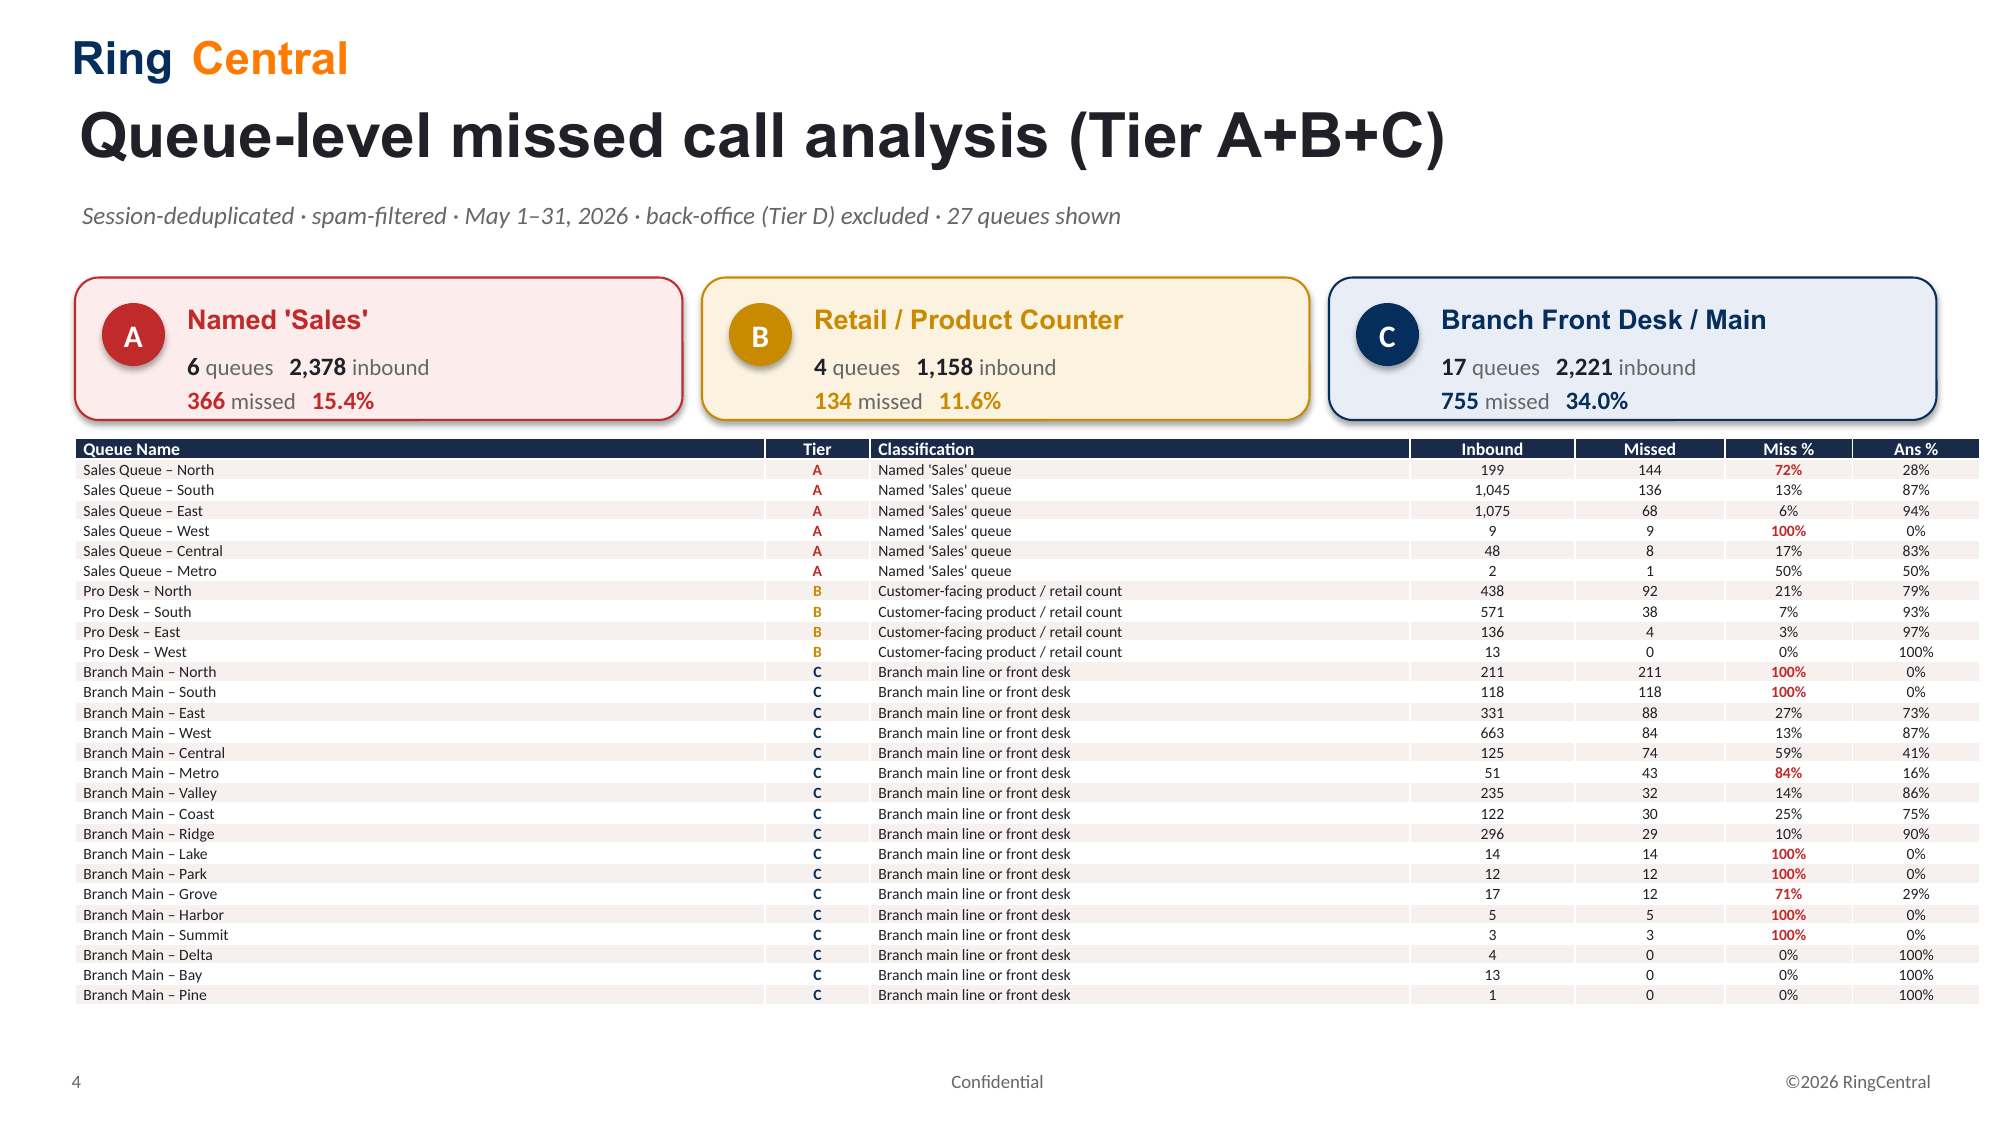
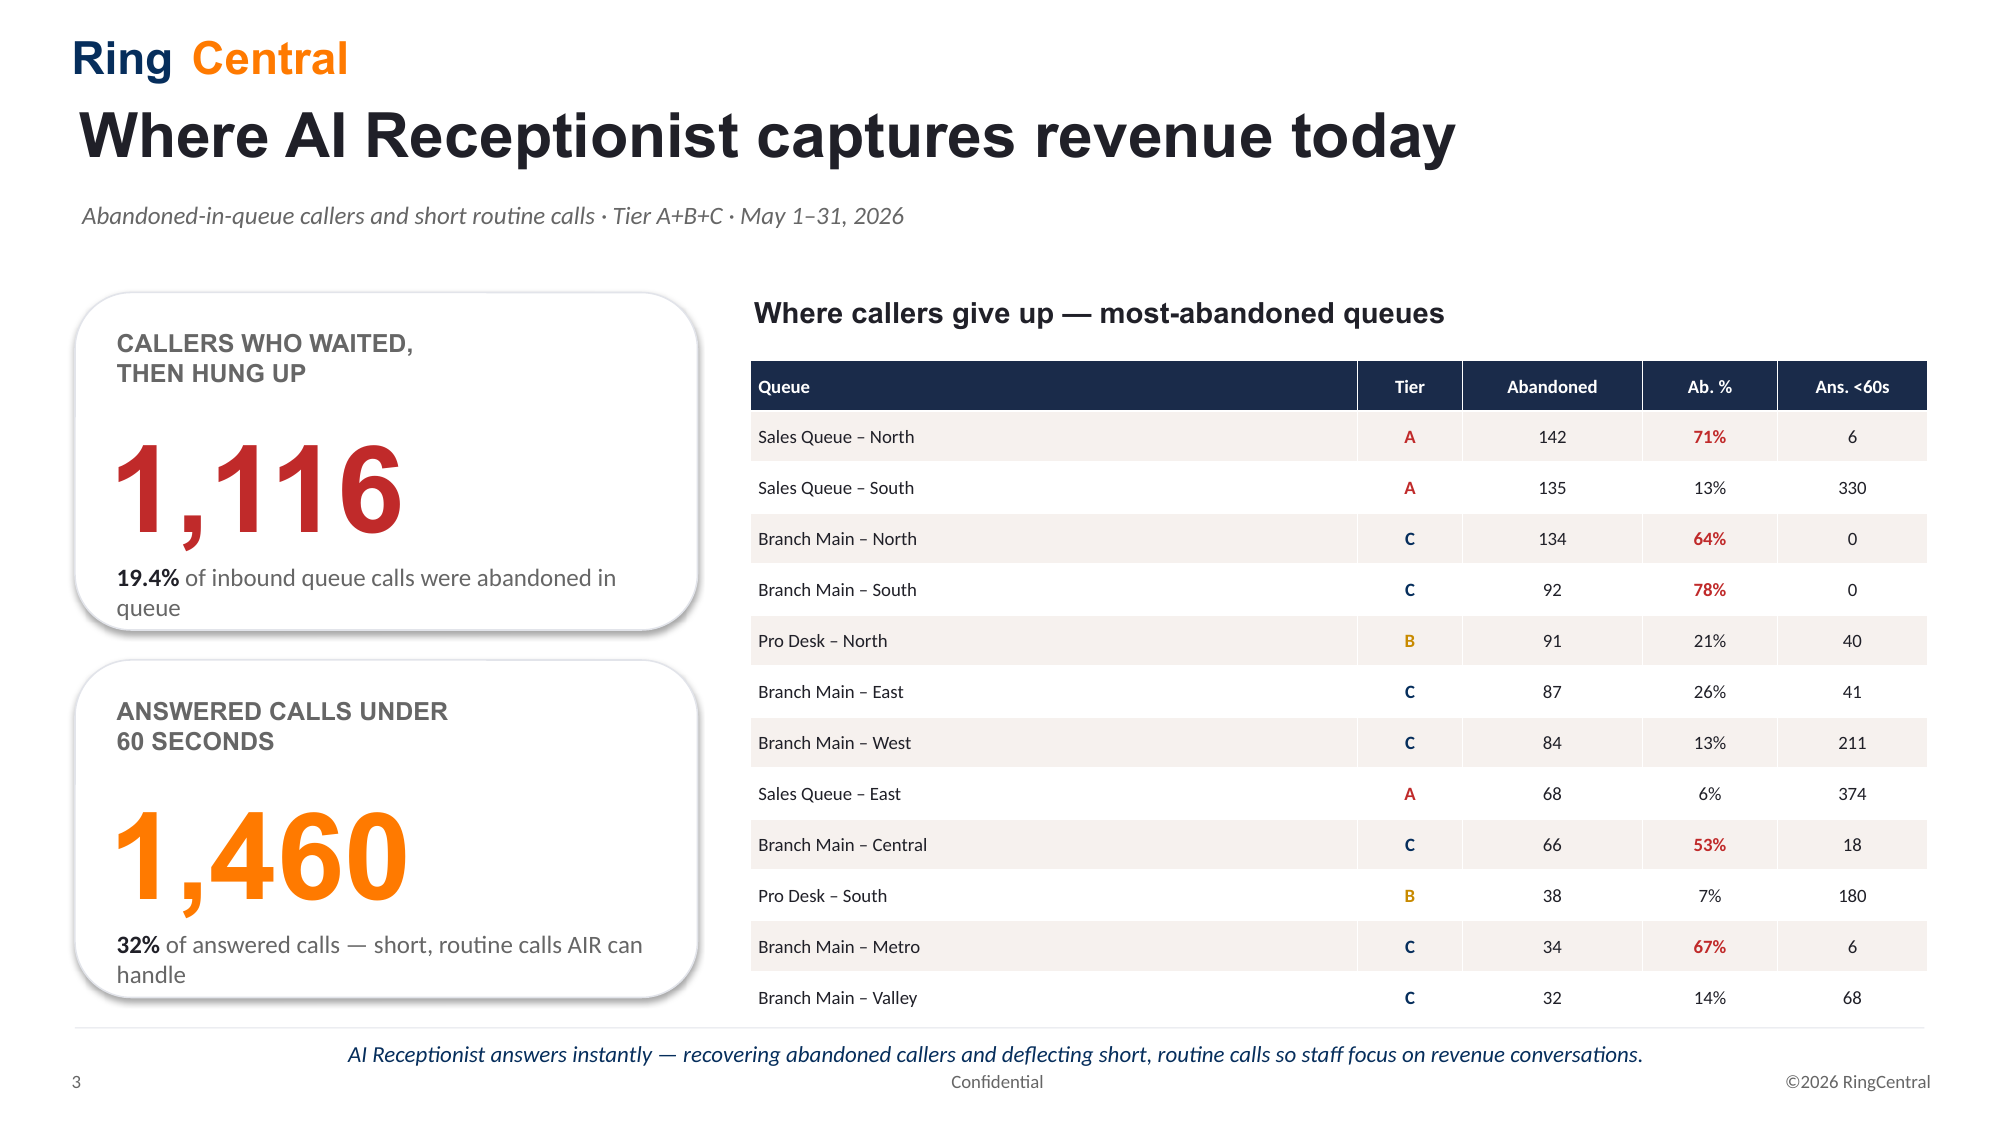
Add slide 3: AI Receptionist opportunity signals
Implement the VP-of-Sales expansion: track abandoned-in-queue callers
(abandoned + abandoned-to-voicemail) and answered calls under 60s of talk
time, both headline and per-queue. Add a new slide 3 with two stat cards
and a most-abandoned-queues table, growing the deck to four slides.
Average speed of answer is deferred — the current export has no wait-time
column. Regenerate the anonymized example slides accordingly.

diff --git a/templates/index.html b/templates/index.html
@@ -22,7 +22,7 @@
 <div class="card" style="background:linear-gradient(180deg,#fbfcfe 0%,#fff 100%);">
   <div style="display:flex;align-items:baseline;justify-content:space-between;flex-wrap:wrap;gap:0.5rem;margin-bottom:0.4rem;">
     <h2 style="margin-bottom:0;">Here's exactly what you'll get</h2>
-    <span style="color:#999;font-size:0.82rem;">Real example · 3-slide .pptx</span>
+    <span style="color:#999;font-size:0.82rem;">Real example · 4-slide .pptx</span>
   </div>
   <p style="color:#777;font-size:0.9rem;margin-bottom:1.5rem;">
     A finished, RingCentral-branded PowerPoint — built automatically from your upload. Sample below:
@@ -37,8 +37,8 @@
          style="width:100%;display:block;">
   </a>
 
-  <!-- The other two slides -->
-  <div style="display:grid;grid-template-columns:1fr 1fr;gap:1rem;">
+  <!-- The other three slides -->
+  <div style="display:grid;grid-template-columns:1fr 1fr 1fr;gap:1rem;">
     <a href="{{ url_for('static', filename='examples/slide-1.png') }}" target="_blank"
        style="display:block;border-radius:8px;overflow:hidden;border:1px solid #e7eaf0;
               box-shadow:0 2px 10px rgba(0,0,0,0.06);">
@@ -49,6 +49,12 @@
        style="display:block;border-radius:8px;overflow:hidden;border:1px solid #e7eaf0;
               box-shadow:0 2px 10px rgba(0,0,0,0.06);">
       <img src="{{ url_for('static', filename='examples/slide-3.png') }}"
+           alt="Example slide: AI Receptionist opportunity signals" style="width:100%;display:block;">
+    </a>
+    <a href="{{ url_for('static', filename='examples/slide-4.png') }}" target="_blank"
+       style="display:block;border-radius:8px;overflow:hidden;border:1px solid #e7eaf0;
+              box-shadow:0 2px 10px rgba(0,0,0,0.06);">
+      <img src="{{ url_for('static', filename='examples/slide-4.png') }}"
            alt="Example slide: queue-level detail" style="width:100%;display:block;">
     </a>
   </div>

diff --git a/deck.py b/deck.py
@@ -306,6 +306,96 @@ def _worst_table(s, queues, x, y, w):
 
 
 # ---------------------------------------------------------------------------
+# Slide 3 — AIR opportunity signals (abandoned + sub-60s answered)
+# ---------------------------------------------------------------------------
+
+def _slide3(prs, r: PipelineResult, ctx, narr):
+    s = prs.slides.add_slide(prs.slide_layouts[6])
+    _logo(s)
+    _title_block(s, narr.get("title", "Where AI Receptionist captures revenue today"),
+                 narr.get("subtitle", ""))
+
+    abandon_rate = r.abandoned_total / r.universe_sessions if r.universe_sessions else 0
+
+    # Two stacked stat cards on the left
+    lx, lw = Inches(0.5), Inches(4.15)
+    # Card A — abandoned callers
+    ay, ah = Inches(1.95), Inches(2.25)
+    _rect(s, lx, ay, lw, ah, WHITE, line=CARD_BORDER, radius=True)
+    _text(s, "CALLERS WHO WAITED,\nTHEN HUNG UP", lx + Inches(0.25), ay + Inches(0.22),
+          lw - Inches(0.5), Inches(0.6), size=12, bold=True, color=GRAY, font="Arial")
+    _text(s, f"{r.abandoned_total:,}", lx + Inches(0.2), ay + Inches(0.78), lw - Inches(0.3), Inches(1.0),
+          size=58, bold=True, color=RC_RED, font="Arial")
+    _rich(s, [[(f"{abandon_rate*100:.1f}%", {"bold": True, "size": 12, "color": DARK}),
+               (" of inbound queue calls were abandoned in queue", {"size": 12, "color": GRAY})]],
+          lx + Inches(0.25), ay + Inches(1.78), lw - Inches(0.5), Inches(0.4))
+
+    # Card B — answered under 60s
+    by, bh = Inches(4.4), Inches(2.25)
+    _rect(s, lx, by, lw, bh, WHITE, line=CARD_BORDER, radius=True)
+    _text(s, "ANSWERED CALLS UNDER\n60 SECONDS", lx + Inches(0.25), by + Inches(0.22),
+          lw - Inches(0.5), Inches(0.6), size=12, bold=True, color=GRAY, font="Arial")
+    _text(s, f"{r.answered_under_60:,}", lx + Inches(0.2), by + Inches(0.78), lw - Inches(0.3), Inches(1.0),
+          size=58, bold=True, color=RC_ORANGE, font="Arial")
+    _rich(s, [[(f"{r.under_60_pct*100:.0f}%", {"bold": True, "size": 12, "color": DARK}),
+               (" of answered calls — short, routine calls AIR can handle", {"size": 12, "color": GRAY})]],
+          lx + Inches(0.25), by + Inches(1.78), lw - Inches(0.5), Inches(0.4))
+
+    # Right — most-abandoned queues table
+    rx = Inches(5.0)
+    _text(s, "Where callers give up — most-abandoned queues", rx, Inches(1.95),
+          Inches(7.8), Inches(0.35), size=14, bold=True, color=DARK, font="Arial")
+    top_ab = sorted((q for q in r.queue_stats.values() if q.abandoned_total > 0),
+                    key=lambda q: q.abandoned_total, reverse=True)[:12]
+    _abandon_table(s, top_ab, rx, Inches(2.4), Inches(7.85))
+
+    # Takeaway strip
+    _rect(s, Inches(0.5), Inches(6.85), Inches(12.33), Pt(0.5), CARD_BORDER)
+    _text(s, "AI Receptionist answers instantly — recovering abandoned callers and "
+             "deflecting short, routine calls so staff focus on revenue conversations.",
+          Inches(0.5), Inches(6.92), Inches(12.3), Inches(0.4),
+          size=11, italic=True, color=RC_BLUE, align=PP_ALIGN.CENTER)
+    _footer(s, 3)
+
+
+def _abandon_table(s, queues, x, y, w):
+    rows = len(queues) + 1
+    row_in = 0.34
+    tbl_shape = s.shapes.add_table(rows, 5, x, y, w, Inches(row_in * rows))
+    tbl = tbl_shape.table
+    tbl.first_row = False
+    tbl.horz_banding = False
+    widths = [4.05, 0.7, 1.2, 0.9, 1.0]
+    for j, ww in enumerate(widths):
+        tbl.columns[j].width = Inches(ww)
+    for i in range(rows):
+        tbl.rows[i].height = Inches(row_in)
+    headers = ["Queue", "Tier", "Abandoned", "Ab. %", "Ans. <60s"]
+    for j, htext in enumerate(headers):
+        c = tbl.cell(0, j)
+        c.fill.solid(); c.fill.fore_color.rgb = RC_NAVY
+        _cell(c, htext, WHITE, bold=True, size=9,
+              align=PP_ALIGN.LEFT if j == 0 else PP_ALIGN.CENTER)
+    tier_col = {"A": RC_RED, "B": RC_GOLD, "C": RC_BLUE}
+    for i, q in enumerate(queues, 1):
+        bg = ROW_ALT if i % 2 else WHITE
+        vals = [q.name[:40], q.tier, f"{q.abandoned_total:,}",
+                f"{round(q.abandon_rate*100)}%", f"{q.answered_under_60:,}"]
+        for j, v in enumerate(vals):
+            c = tbl.cell(i, j)
+            c.fill.solid(); c.fill.fore_color.rgb = bg
+            if j == 1:
+                col = tier_col.get(q.tier, DARK); bold = True
+            elif j == 3:
+                col = RC_RED if q.abandon_rate >= 0.5 else DARK
+                bold = q.abandon_rate >= 0.5
+            else:
+                col = DARK; bold = False
+            _cell(c, v, col, bold=bold, size=9,
+                  align=PP_ALIGN.LEFT if j == 0 else PP_ALIGN.CENTER)
+
+
+# ---------------------------------------------------------------------------
 # Slide 4 — queue-level table
 # ---------------------------------------------------------------------------
 
@@ -442,6 +532,9 @@ def build_deck(result: PipelineResult, run_id: str, customer: str, ae_name: str,
         "business_hours_miss_pct": round(result.business_hours_miss_pct * 100),
         "repeat_callers": result.repeat_callers,
         "misses_per_day": round(result.misses_per_day),
+        "abandoned_total": result.abandoned_total,
+        "answered_under_60": result.answered_under_60,
+        "under_60_pct": round(result.under_60_pct * 100),
         "sales_queue_missed": sales_queue_calls,
         "num_queues": len(result.queue_stats),
         "top_missed_queues": {q.name: q.total_missed for q in top_queues},
@@ -449,6 +542,8 @@ def build_deck(result: PipelineResult, run_id: str, customer: str, ae_name: str,
 
     narr1 = _narr1(ctx, prior_instructions)
     narr2 = _narr_titles(ctx, prior_instructions, "slide2")
+    narr3 = {"title": "Where AI Receptionist captures revenue today",
+             "subtitle": f"Abandoned-in-queue callers and short routine calls · Tier A+B+C · {result.reporting_period}"}
     narr4 = {"title": "Queue-level missed call analysis (Tier A+B+C)",
              "subtitle": f"Session-deduplicated · spam-filtered · {result.reporting_period} · back-office (Tier D) excluded · {len(result.queue_stats)} queues shown"}
 
@@ -458,6 +553,7 @@ def build_deck(result: PipelineResult, run_id: str, customer: str, ae_name: str,
 
     _slide1(prs, result, ctx, narr1)
     _slide2(prs, result, ctx, narr2, sales_queue_calls)
+    _slide3(prs, result, ctx, narr3)
     _slide4(prs, result, ctx, narr4)
 
     prs.save(out_path)

diff --git a/pipeline.py b/pipeline.py
@@ -49,12 +49,22 @@ class QueueStats:
     vm_missed: int = 0
     abandoned: int = 0
     missed: int = 0
+    answered_under_60: int = 0   # answered calls with talk time < 60s
     tier: str = ""             # A / B / C / D, assigned later
     classification: str = ""   # human-readable label, assigned later
 
     @property
     def total_missed(self) -> int:
         return self.vm_abandoned + self.vm_missed + self.abandoned + self.missed
+
+    @property
+    def abandoned_total(self) -> int:
+        """Callers who waited in queue then hung up (abandoned + abandoned-to-VM)."""
+        return self.abandoned + self.vm_abandoned
+
+    @property
+    def abandon_rate(self) -> float:
+        return self.abandoned_total / self.inbound if self.inbound else 0.0
 
     @property
     def miss_rate(self) -> float:
@@ -87,6 +97,9 @@ class PipelineResult:
     hourly_missed: dict[int, int]  # hour(7..17) -> missed count
     days_in_period: int
 
+    # AIR opportunity signals (Ricky Love expansion)
+    answered_under_60: int = 0     # answered calls with talk time < 60s
+
     queue_stats: dict[str, QueueStats] = field(default_factory=dict)
     reporting_period: str = ""
     reconciliation_ok: bool = True
@@ -100,6 +113,16 @@ class PipelineResult:
     @property
     def voicemail_total(self) -> int:
         return self.vm_abandoned + self.vm_missed
+
+    @property
+    def abandoned_total(self) -> int:
+        """Callers who waited in queue then hung up (abandoned + abandoned-to-VM)."""
+        return self.vm_abandoned + self.abandoned
+
+    @property
+    def under_60_pct(self) -> float:
+        """Share of answered calls that were under 60s of talk time."""
+        return self.answered_under_60 / self.answered if self.answered else 0.0
 
     @property
     def miss_rate(self) -> float:
@@ -206,6 +229,7 @@ def parse_sessions(path: Path) -> pd.DataFrame:
         group = group.sort_values("_row_order")
         outcome = _classify_session(group)
         max_call = group["_call_seconds"].max()
+        handle_seconds = float(group["_handle_seconds"].max())
         entry_queue = group.iloc[0]["Queue"]
         entry_queue = str(entry_queue).strip() if pd.notna(entry_queue) else ""
         # prefer first non-blank queue for attribution
@@ -229,6 +253,7 @@ def parse_sessions(path: Path) -> pd.DataFrame:
             "session_id": session_id,
             "outcome": outcome,
             "queue": entry_queue,
+            "handle_seconds": handle_seconds,
             "is_spam": max_call <= SPAM_MAX_SECONDS,
             "start_time": start_time,
             "from_number": from_number,
@@ -274,6 +299,14 @@ def build_result(sdf: pd.DataFrame, queue_tiers: dict[str, dict]) -> PipelineRes
     total_missed = vm_abandoned + vm_missed + abandoned + missed
     missed_df = universe[universe["outcome"] != OUTCOME_ANSWERED]
 
+    # Answered calls with under 60s talk time (AIR-solvable "basic" calls)
+    answered_df = universe[universe["outcome"] == OUTCOME_ANSWERED]
+    if "handle_seconds" in answered_df.columns:
+        answered_under_60 = int(((answered_df["handle_seconds"] > 0)
+                                 & (answered_df["handle_seconds"] < 60)).sum())
+    else:
+        answered_under_60 = 0
+
     # Business hours miss %
     bh_miss = int(missed_df["in_business_hours"].sum())
     business_hours_miss_pct = bh_miss / total_missed if total_missed else 0.0
@@ -314,6 +347,9 @@ def build_result(sdf: pd.DataFrame, queue_tiers: dict[str, dict]) -> PipelineRes
         o = row["outcome"]
         if o == OUTCOME_ANSWERED:
             qs.answered += 1
+            hs = row.get("handle_seconds", 0) or 0
+            if 0 < hs < 60:
+                qs.answered_under_60 += 1
         elif o == OUTCOME_VM_ABANDONED:
             qs.vm_abandoned += 1
         elif o == OUTCOME_VM_MISSED:
@@ -344,6 +380,7 @@ def build_result(sdf: pd.DataFrame, queue_tiers: dict[str, dict]) -> PipelineRes
         repeat_callers=repeat_callers,
         hourly_missed=hourly_missed,
         days_in_period=days_in_period,
+        answered_under_60=answered_under_60,
         queue_stats=queue_stats,
         reporting_period=reporting_period,
         reconciliation_ok=recon_ok,